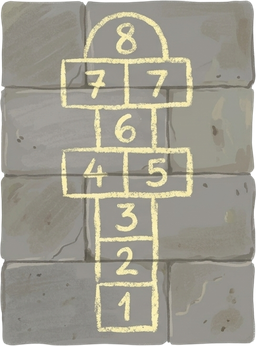
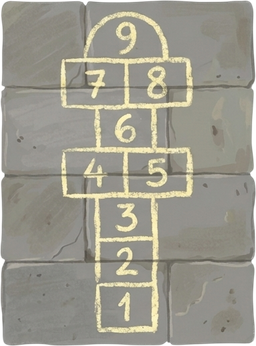
fix: hopscotch numbers, ghost-free strip seams, lit lamp matches unlit (1.0.0)
- Hopscotch repainted as a SpriteCook edit (12 credits): 1-7 then 8, 9.
- Tiling strips join their ends along a best-match cut instead of a
  cross-fade, so no see-through ghost at the repeat; sizes unchanged.
- Lit lamp post scaled to the unlit one's exact size (160x617, was 160x638).

Claude-Session: https://claude.ai/code/session_011GESAxZJ1ogWMx8EXRt9bR

diff --git a/tools/process_spritecook.py b/tools/process_spritecook.py
@@ -11,10 +11,13 @@ Each output in manifest.json that should be processed carries:
   "path":  where the processed file goes, e.g. art/elevations/terrace_row_brick.png
   "mode":  how to process it:
            fit_width     trim, then scale to "width" (elevations: houses, lamps, vans, trees)
-           strip         trim, keep the middle, cross-fade the ends so it tiles left to right, scale to "width"
+           strip         trim, keep the middle, join the ends along a matching cut so it tiles left to right, scale to "width"
            texture       square, cross-faded on both axes so it tiles, scale to "width"
            slice         the raw is a row of "count" items; this output takes item "index" (0-based), then fit_width
   "width": target width in px
+  "same_size_as": optional path of another output (processed earlier in the manifest); this one is
+           then scaled to exactly that size, for a variant that SpriteCook painted a little taller
+           or wider than its twin (the lit lamp post), so the two swap without a jump
 An output can instead be made from another kit file, with no SpriteCook download:
   "from":  the kit file it is made from, e.g. art/textures/lane_tarmac.png
   "mode":  plain_texture  the texture with its painted patches lifted out ("remove": list of
@@ -57,14 +60,95 @@ def _crossfade_x(a: np.ndarray, blend: float) -> np.ndarray:
     return np.concatenate([head, a[:, n:-n]], axis=1)
 
 
+def _seam_path(cost: np.ndarray) -> tuple:
+    """The cheapest top-to-bottom path through [cost], one column per row, moving at most one
+    column between rows (dynamic programming). Returns (total cost, column for each row)."""
+    h, n = cost.shape
+    acc = cost.copy()
+    step = np.zeros((h, n), dtype=np.int64)
+    for y in range(1, h):
+        prev = np.stack([np.r_[1e18, acc[y - 1, :-1]], acc[y - 1], np.r_[acc[y - 1, 1:], 1e18]])
+        step[y] = prev.argmin(0) - 1
+        acc[y] += prev.min(0)
+    seam = np.empty(h, dtype=np.int64)
+    seam[-1] = int(acc[-1].argmin())
+    for y in range(h - 1, 0, -1):
+        seam[y - 1] = seam[y] + step[y, seam[y]]
+    return float(acc[-1].min()), seam
+
+
+def _seam_cost(tail: np.ndarray, head: np.ndarray) -> np.ndarray:
+    n = tail.shape[1]
+    alpha = np.maximum(tail[..., 3:], head[..., 3:]) / 255.0
+    cost = (np.abs(tail[..., :3] - head[..., :3]) * alpha).sum(2) + np.abs(tail[..., 3] - head[..., 3])
+    lo, hi = int(n * 0.2), int(n * 0.8)  # keep the cut away from the tile edges
+    cost[:, :lo] = cost[:, hi:] = 1e9
+    return cost
+
+
+def _seam_x(a: np.ndarray, blend: float, feather: int = 3) -> np.ndarray:
+    """Like _crossfade_x, but instead of fading the two ends through each other (which leaves
+    a see-through ghost of both wherever they differ, such as two windows or chimneys), it cuts
+    from one to the other along the path where they already match best, softened over
+    [feather] px either side. A broad tone difference across the cut (say one roof a shade
+    darker than the other) is eased out over the overlap so it doesn't show as a step."""
+    n = max(1, int(a.shape[1] * blend))
+    tail, head = a[:, -n:], a[:, :n]
+    _, seam = _seam_path(_seam_cost(tail, head))
+    x = np.arange(n)[None, :]
+    w = np.clip((x - seam[:, None] + feather) / (2.0 * feather + 1), 0.0, 1.0)[..., None]
+    # tone: the slow part of head - tail where both are painted, split half each side of the
+    # cut and faded to nothing at the overlap's outer edges, which must stay as painted
+    both = (np.minimum(tail[..., 3], head[..., 3]) > 200).astype(np.float64)
+    diff = (head[..., :3] - tail[..., :3]) * both[..., None]
+    soft = _blur(diff, 12) / np.maximum(_blur(both, 12), 1e-3)[..., None]
+    soft *= (_blur(both, 12) > 0.5)[..., None]
+    toward = np.clip(x / np.maximum(seam[:, None], 1), 0, 1)
+    away = np.clip((n - 1 - x) / np.maximum(n - 1 - seam[:, None], 1), 0, 1)
+    tail_fix, head_fix = tail.copy(), head.copy()
+    tail_fix[..., :3] += soft * (0.5 * toward)[..., None]
+    head_fix[..., :3] -= soft * (0.5 * away)[..., None]
+    joined = tail_fix * (1.0 - w) + head_fix * w
+    return np.concatenate([joined, a[:, n:-n]], axis=1)
+
+
+def _blur(x: np.ndarray, radius: float) -> np.ndarray:
+    """Gaussian blur (sigma [radius]) along both axes, edges clamped."""
+    r = int(3 * radius)
+    k = np.exp(-0.5 * (np.arange(-r, r + 1) / radius) ** 2)
+    k /= k.sum()
+    out = x.astype(np.float64)
+    for axis in (0, 1):
+        pad = [(0, 0)] * out.ndim
+        pad[axis] = (r, r)
+        p = np.pad(out, pad, mode="edge")
+        out = sum(k[i] * np.take(p, np.arange(i, i + out.shape[axis]), axis=axis) for i in range(2 * r + 1))
+    return out
+
+
 def strip(im: Image.Image, width: int, blend: float = 0.12) -> Image.Image:
-    """Tiles left to right: keeps the middle 80% (generated ends are often rounded off),
-    then cross-fades the last [blend] into the first so the seam disappears."""
+    """Tiles left to right: keeps about the middle 80% (generated ends are often rounded off),
+    then joins the last [blend] onto the first along a cut where they match (see _seam_x).
+    The window slides left or right and stretches by up to 4% to where the two ends match
+    best, so the cut falls between doors and windows rather than through them and repeating
+    things (garage doors, fence panels) keep their spacing across the join. The output size
+    is always that of the plain middle 80%, so a better join never changes the file's size."""
     im = trim(im)
     inset = int(im.width * 0.1)
-    im = im.crop((inset, 0, im.width - inset, im.height))
-    out = _crossfade_x(np.asarray(im).astype(np.float32), blend)
-    return scale_to_width(Image.fromarray(out.clip(0, 255).astype(np.uint8), "RGBA"), width)
+    keep0 = im.width - 2 * inset
+    height = max(1, round(im.height * width / (keep0 - int(keep0 * blend))))
+    a = np.asarray(im).astype(np.float32)
+    best = None
+    for keep in range(int(keep0 * 0.96), min(im.width, int(keep0 * 1.04)) + 1, max(1, keep0 // 100)):
+        n = max(1, int(keep * blend))
+        for x0 in range(0, im.width - keep + 1, max(1, inset // 16)):
+            win = a[:, x0:x0 + keep]
+            cost, _ = _seam_path(_seam_cost(win[:, -n:], win[:, :n]))
+            if best is None or cost < best[0]:
+                best = (cost, x0, keep)
+    _, x0, keep = best
+    out = _seam_x(a[:, x0:x0 + keep], blend)
+    return Image.fromarray(out.clip(0, 255).astype(np.uint8), "RGBA").resize((width, height), Image.LANCZOS)
 
 
 def texture(im: Image.Image, width: int, blend: float = 0.12) -> Image.Image:
@@ -277,6 +361,9 @@ def process(raw_dir: Path) -> None:
                 res = fit_width(slice_row(im, int(out["count"]), int(out["index"])), width)
             else:
                 sys.exit(f"{asset['id']}: unknown mode {mode!r}")
+            if out.get("same_size_as"):
+                twin = next(o for a in m["assets"] for o in a.get("outputs", []) if o["path"] == out["same_size_as"])
+                res = res.resize(tuple(twin["size"]), Image.LANCZOS)
             dest = ROOT / out["path"]
             dest.parent.mkdir(parents=True, exist_ok=True)
             res.save(dest, optimize=True)

diff --git a/CHANGELOG.md b/CHANGELOG.md
@@ -9,6 +9,26 @@ Versioning for art:
 - **Minor**: new assets added. Safe to upgrade.
 - **Patch**: an existing asset repainted with the same file name, size and anchor. Safe to upgrade.
 
+## [1.0.0]
+
+Major because one file changes size: **`art/elevations/lamp_post_lit.png` is now 160x617
+(was 160x638).** Check the lit lamp in Tip the Can and Kerby before upgrading. It is anchored
+bottom-centre, so a game that places it by its foot sees the lamp head drop 21 px to where the
+unlit lamp's head is; a game that positions it by its centre or top must adjust.
+
+- The lit lamp post is now exactly the unlit one's size. SpriteCook painted it about 3% taller;
+  processing now scales it to match (`same_size_as` in `manifest.json`), so switching the lamp
+  on no longer makes it jump.
+- Hopscotch fixed: the numbers now read 1, 2, 3, 4|5, 6, 7|8, 9 instead of repeating 7. Repainted
+  as a SpriteCook edit of the old sheet (12 credits); same size (256x346), same slabs and chalk.
+- The seven tiling strips no longer show a see-through ghost where they repeat. Processing used
+  to fade the strip's two ends through each other, which left half-visible chimneys, windows
+  and doors at the join; it now cuts from one end to the other along the line where they match
+  best, with the strip's window moved (and stretched by at most 4%) to where the ends line
+  up. Same sizes, no new painting:
+  `terrace_row_brick`, `terrace_row_render`, `roofline`, `garden_wall`, `privet_hedge`,
+  `closeboard_fence`, `garage_row`.
+
 ## [0.8.0]
 
 - Three paintings from Kerby's second SpriteCook batch, in `art/elevations/`: a family hatchback
